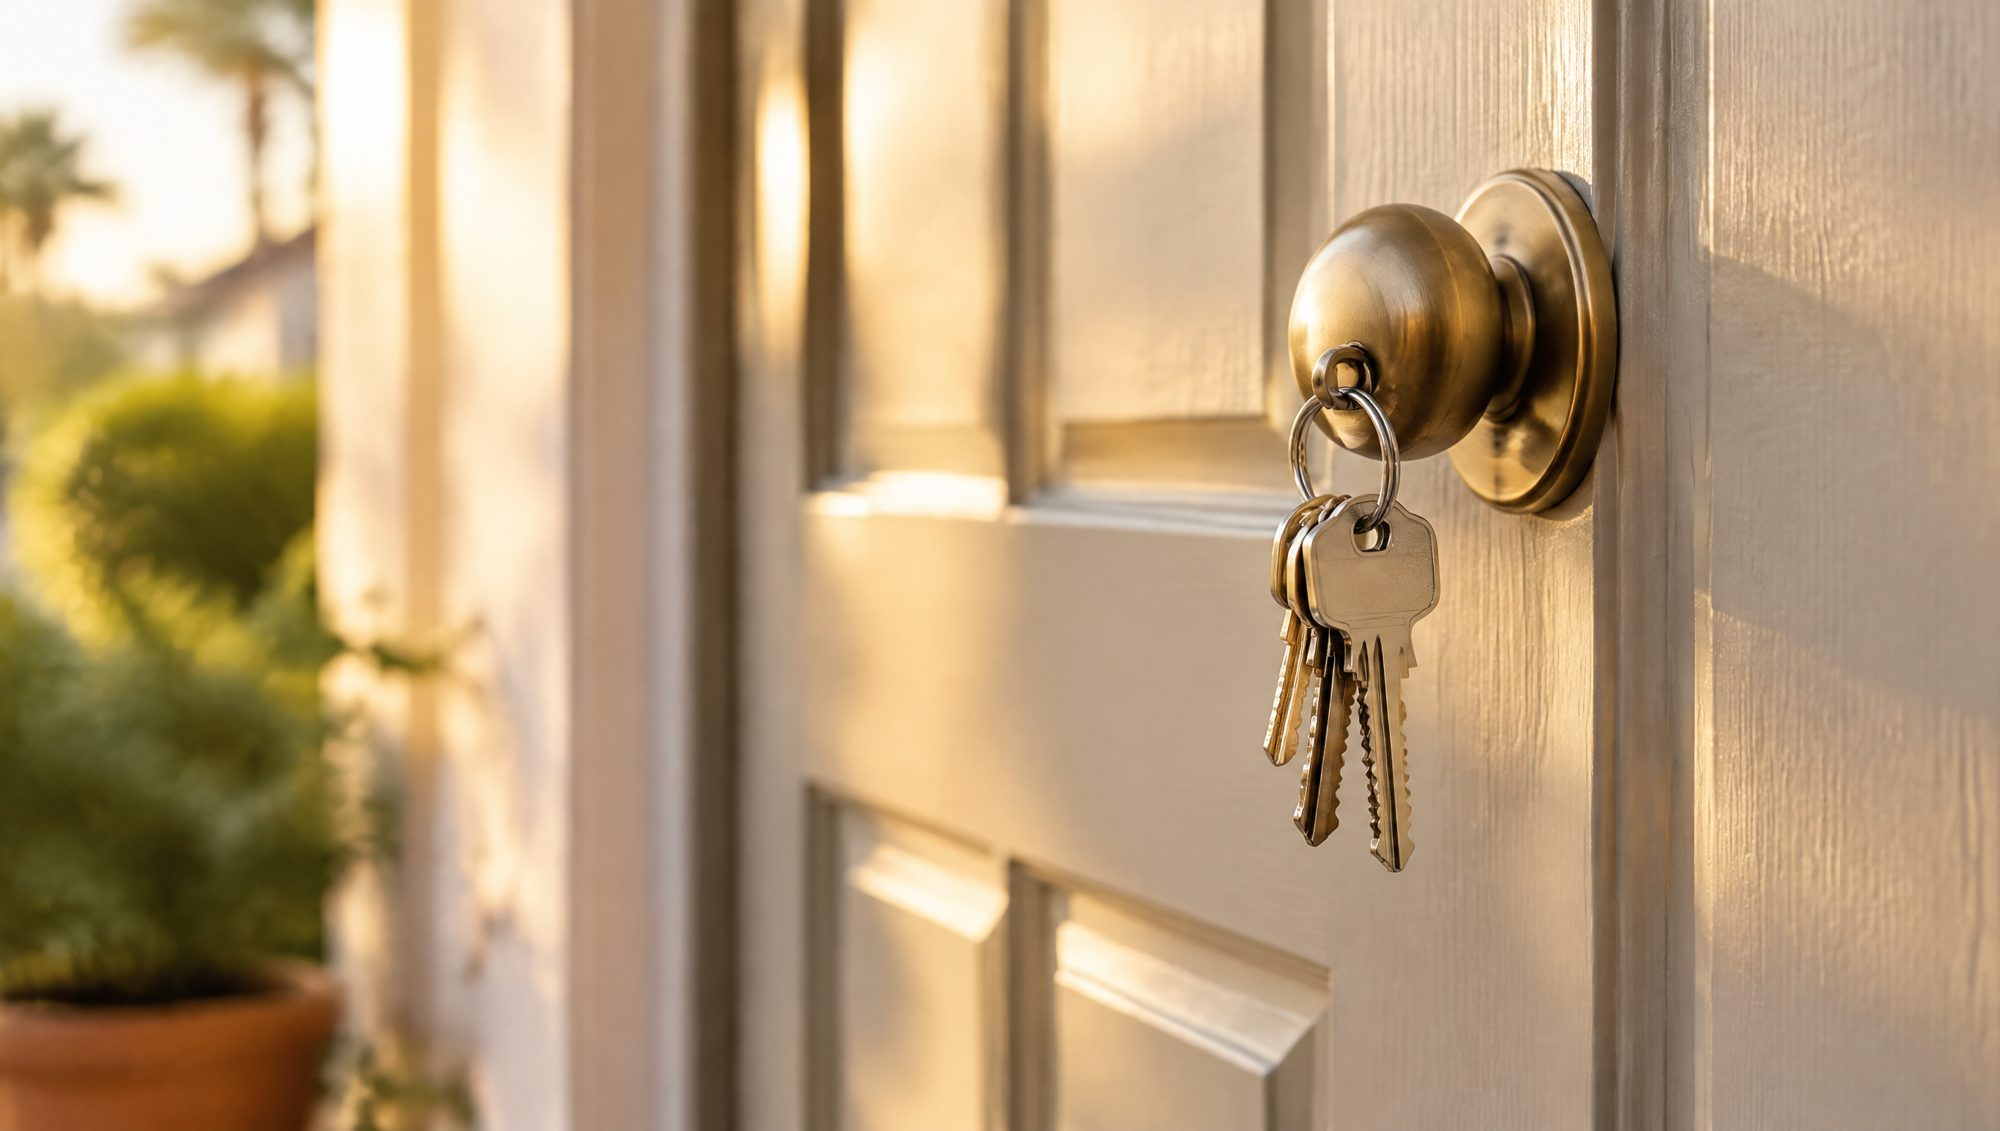
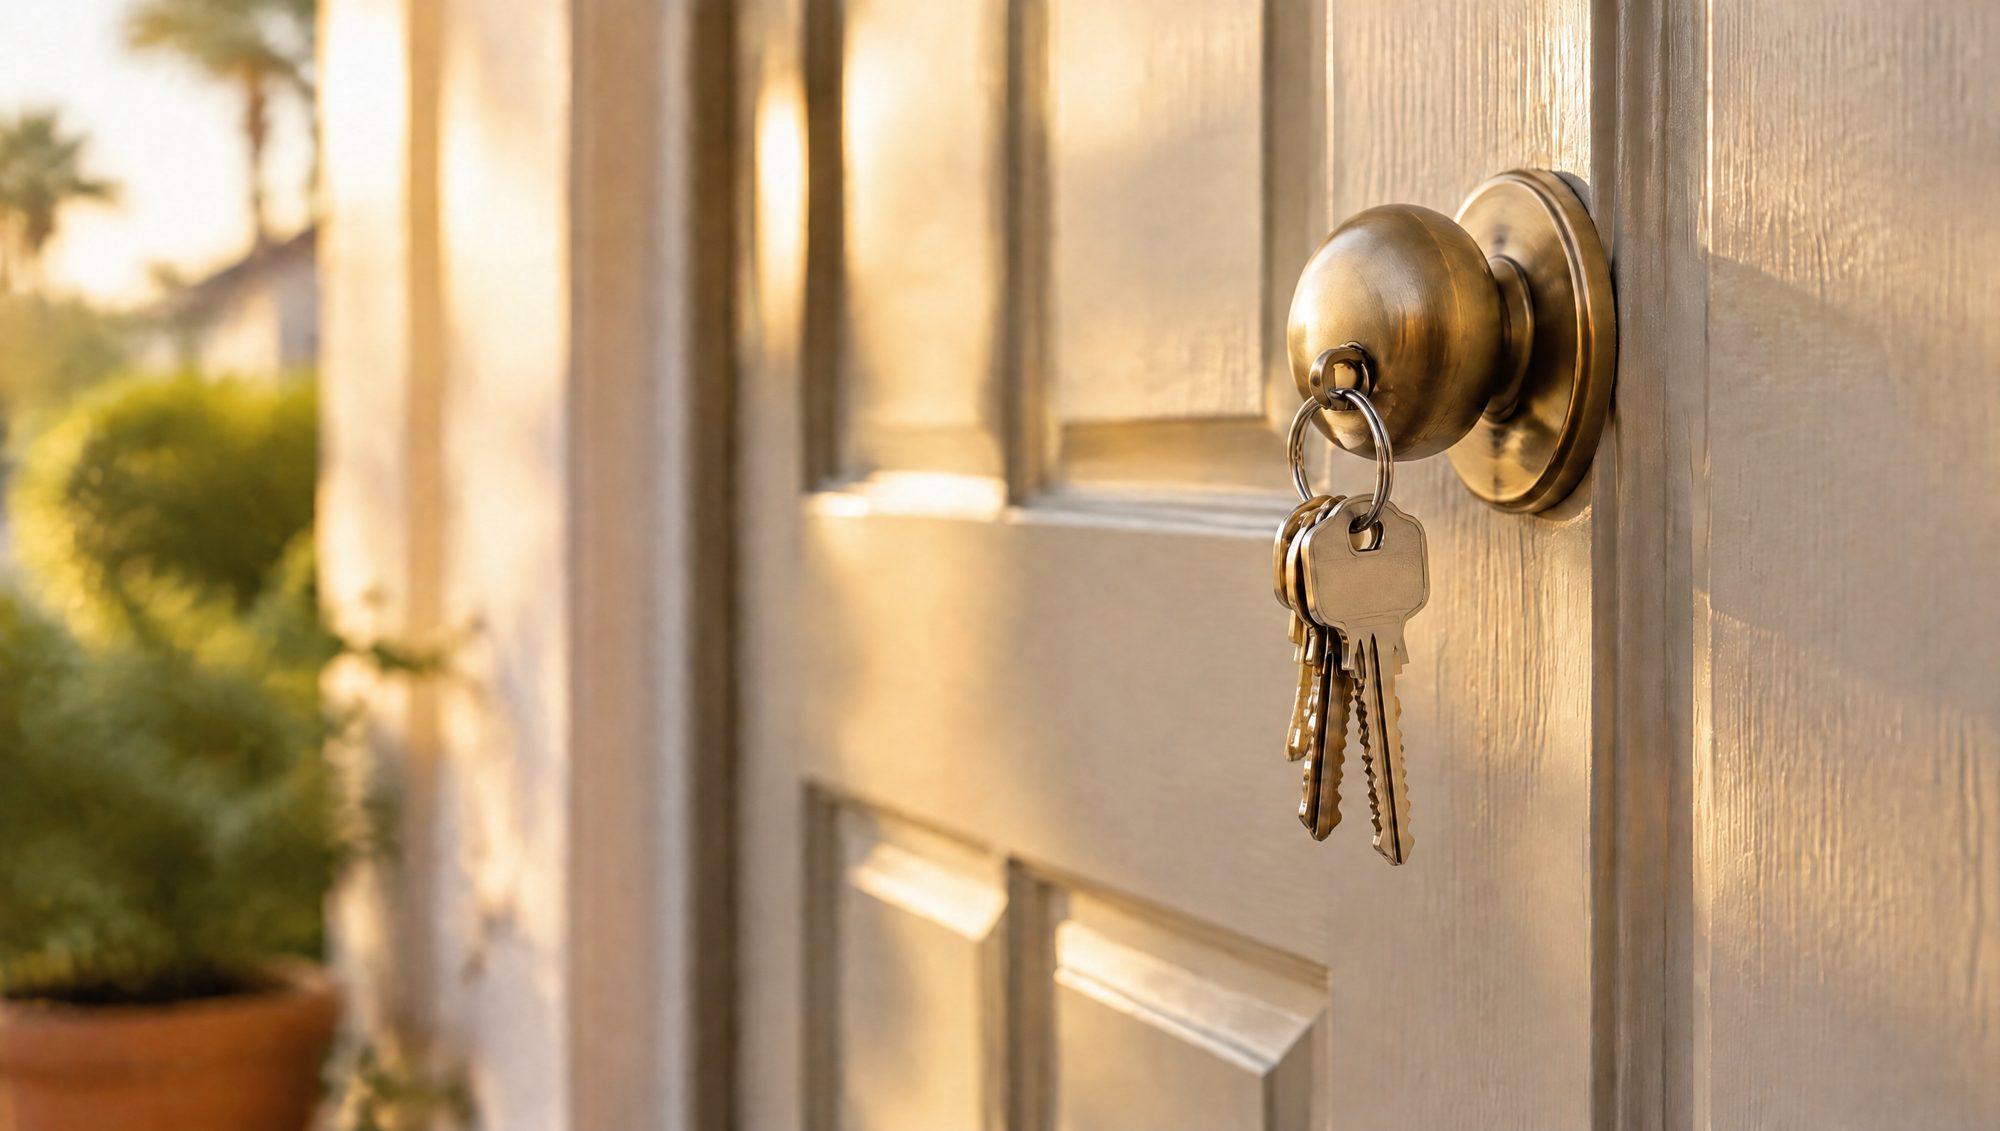
Hero: key inserted in knob; keep earlier ring-hook version in brand/hero-versions

diff --git a/public/index.html b/public/index.html
@@ -26,7 +26,7 @@
   </header>
 
   <main id="top">
-    <section class="hero" style="background-image:linear-gradient(rgba(0,0,0,.25),rgba(0,0,0,.25)),url('img/hero.jpg')">
+    <section class="hero" style="background-image:linear-gradient(rgba(0,0,0,.25),rgba(0,0,0,.25)),url('img/hero.jpg?v=202610091743')">
       <h1 class="hero-logo"><img src="img/logo-white.png" alt="Del Rey Lending" width="560" height="149"></h1>
       <p>Get the guidance you need!</p>
       <p class="hero-es">Hablamos español</p>
@@ -69,7 +69,7 @@
     </section>
 
 
-    <section id="contact" class="contact" style="background-image:linear-gradient(rgba(0,0,0,.55),rgba(0,0,0,.55)),url('img/hero.jpg')">
+    <section id="contact" class="contact" style="background-image:linear-gradient(rgba(0,0,0,.55),rgba(0,0,0,.55)),url('img/hero.jpg?v=202610091743')">
       <div class="contact-info">
         <h2>Contact us</h2>
         <p class="nmls">Company NMLS ID: <a href="https://www.nmlsconsumeraccess.org/EntityDetails.aspx/COMPANY/2456300" target="_blank" rel="noopener">2456300</a></p>
